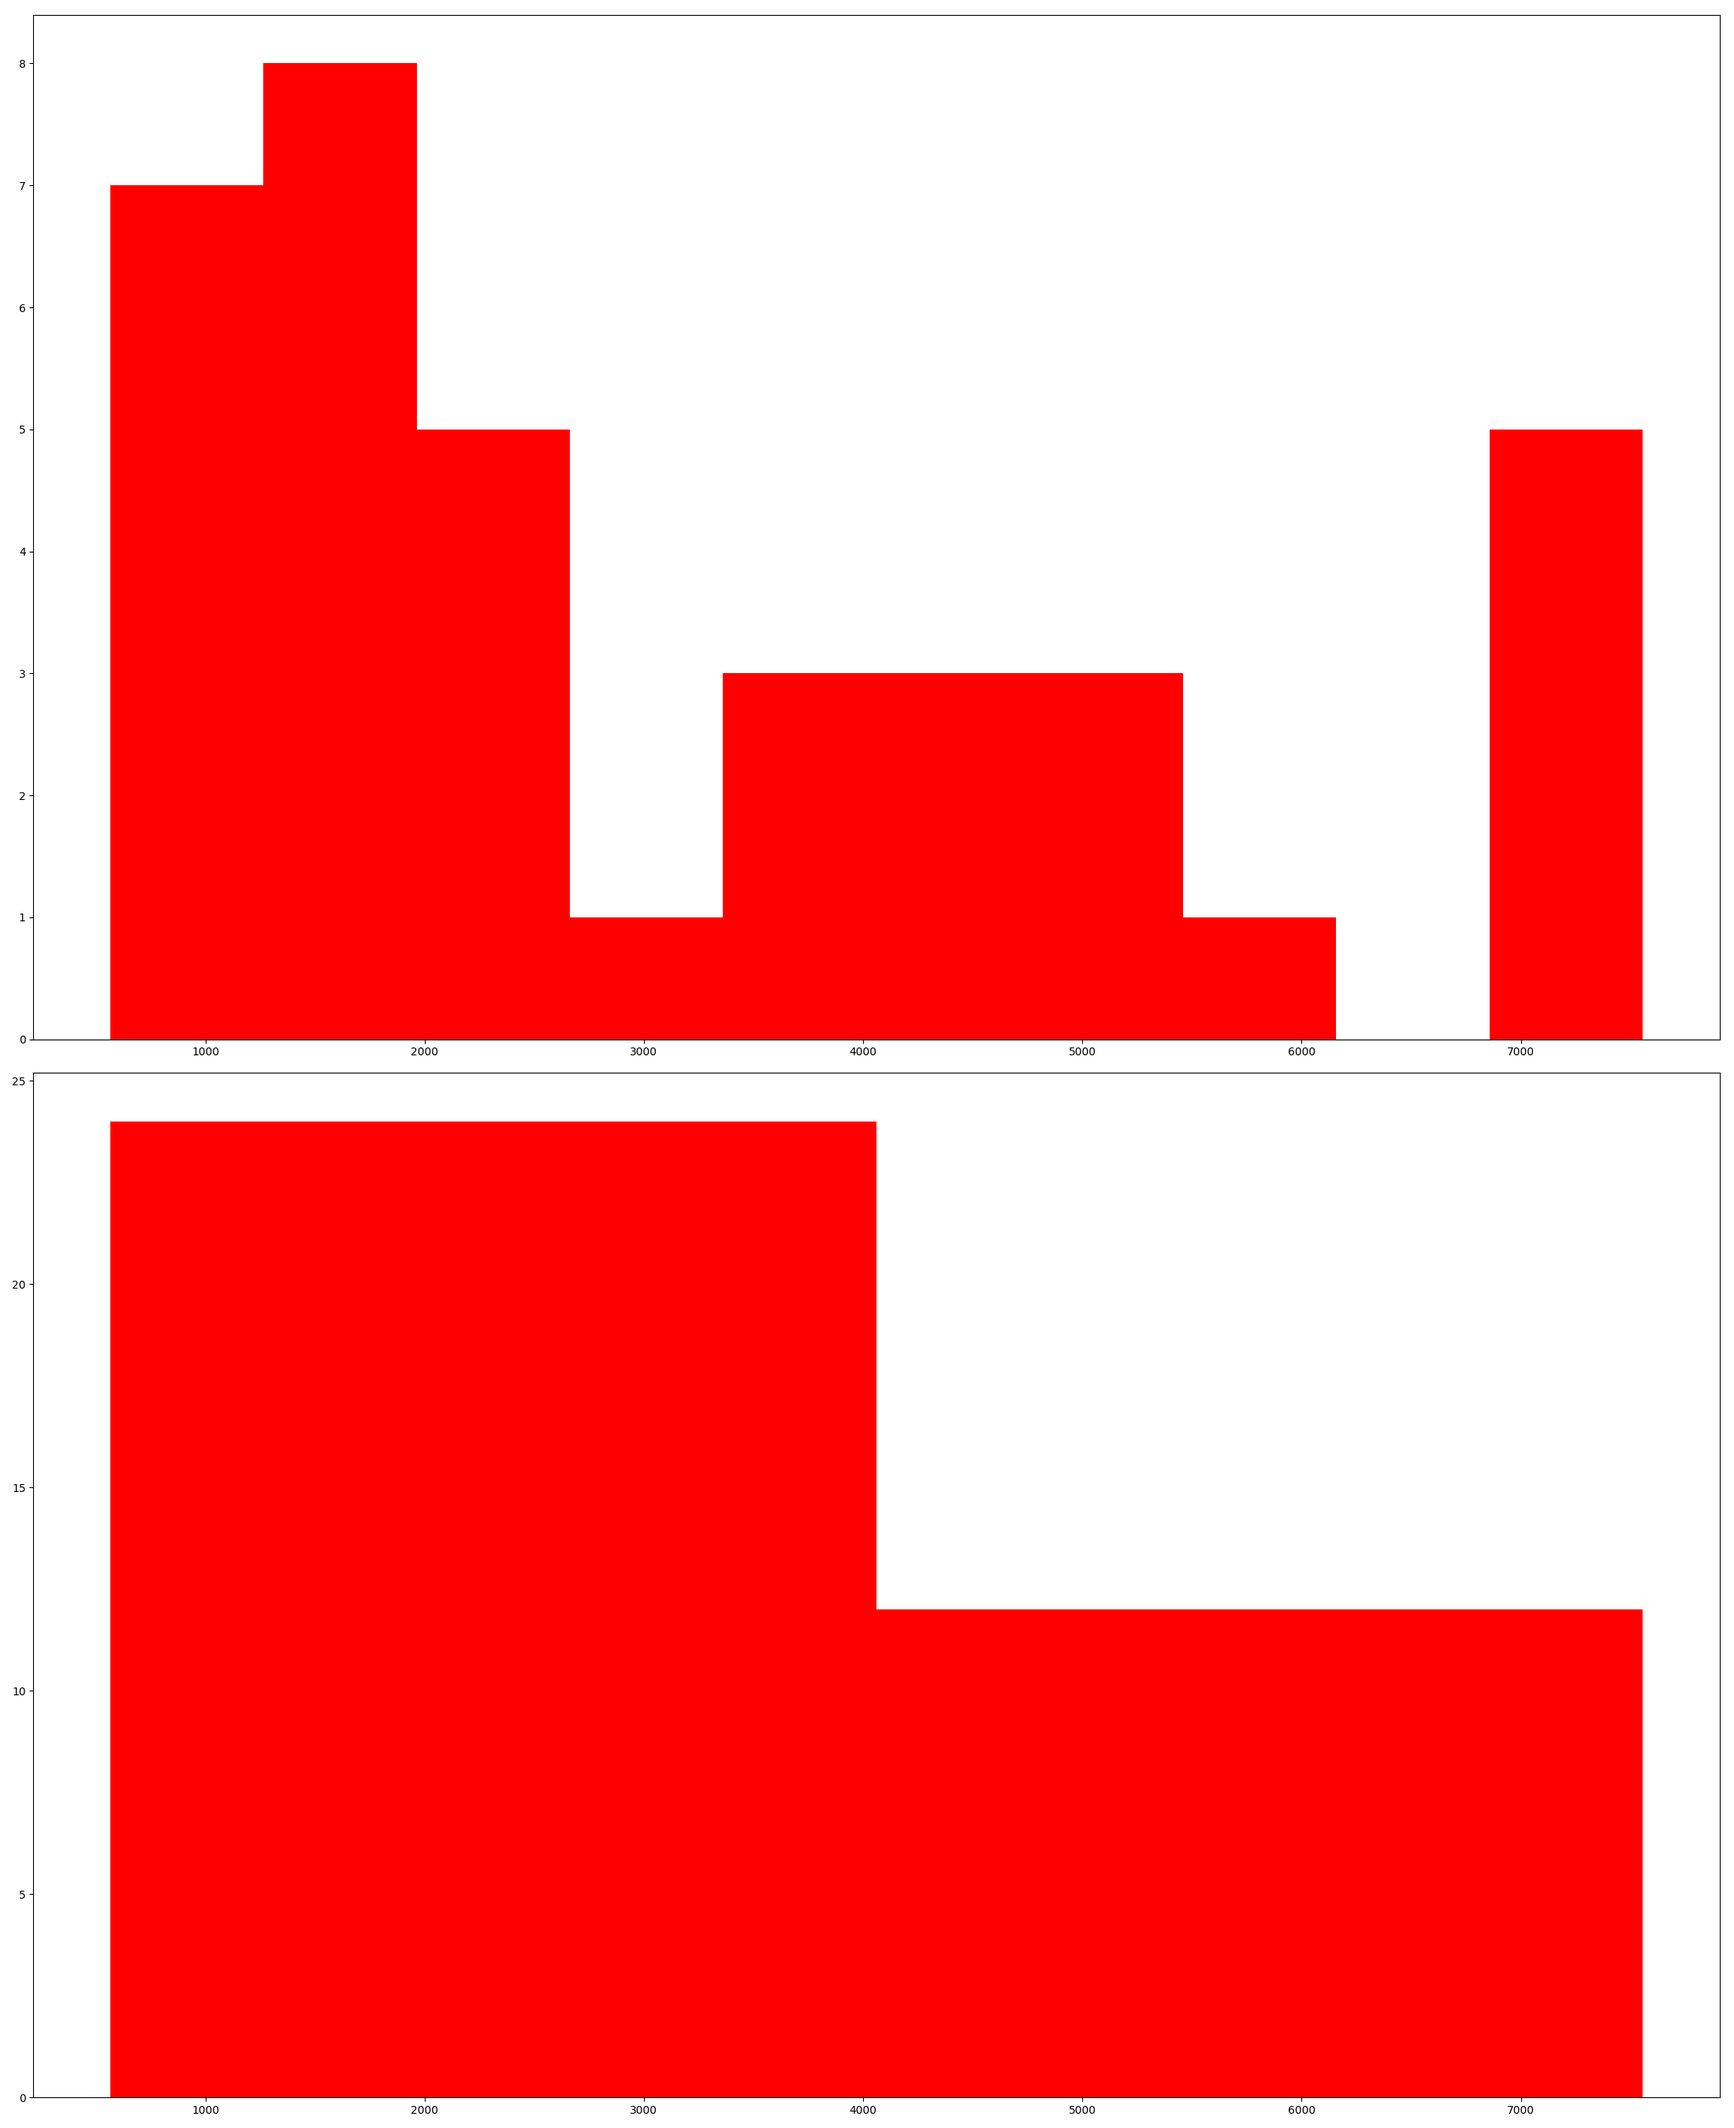
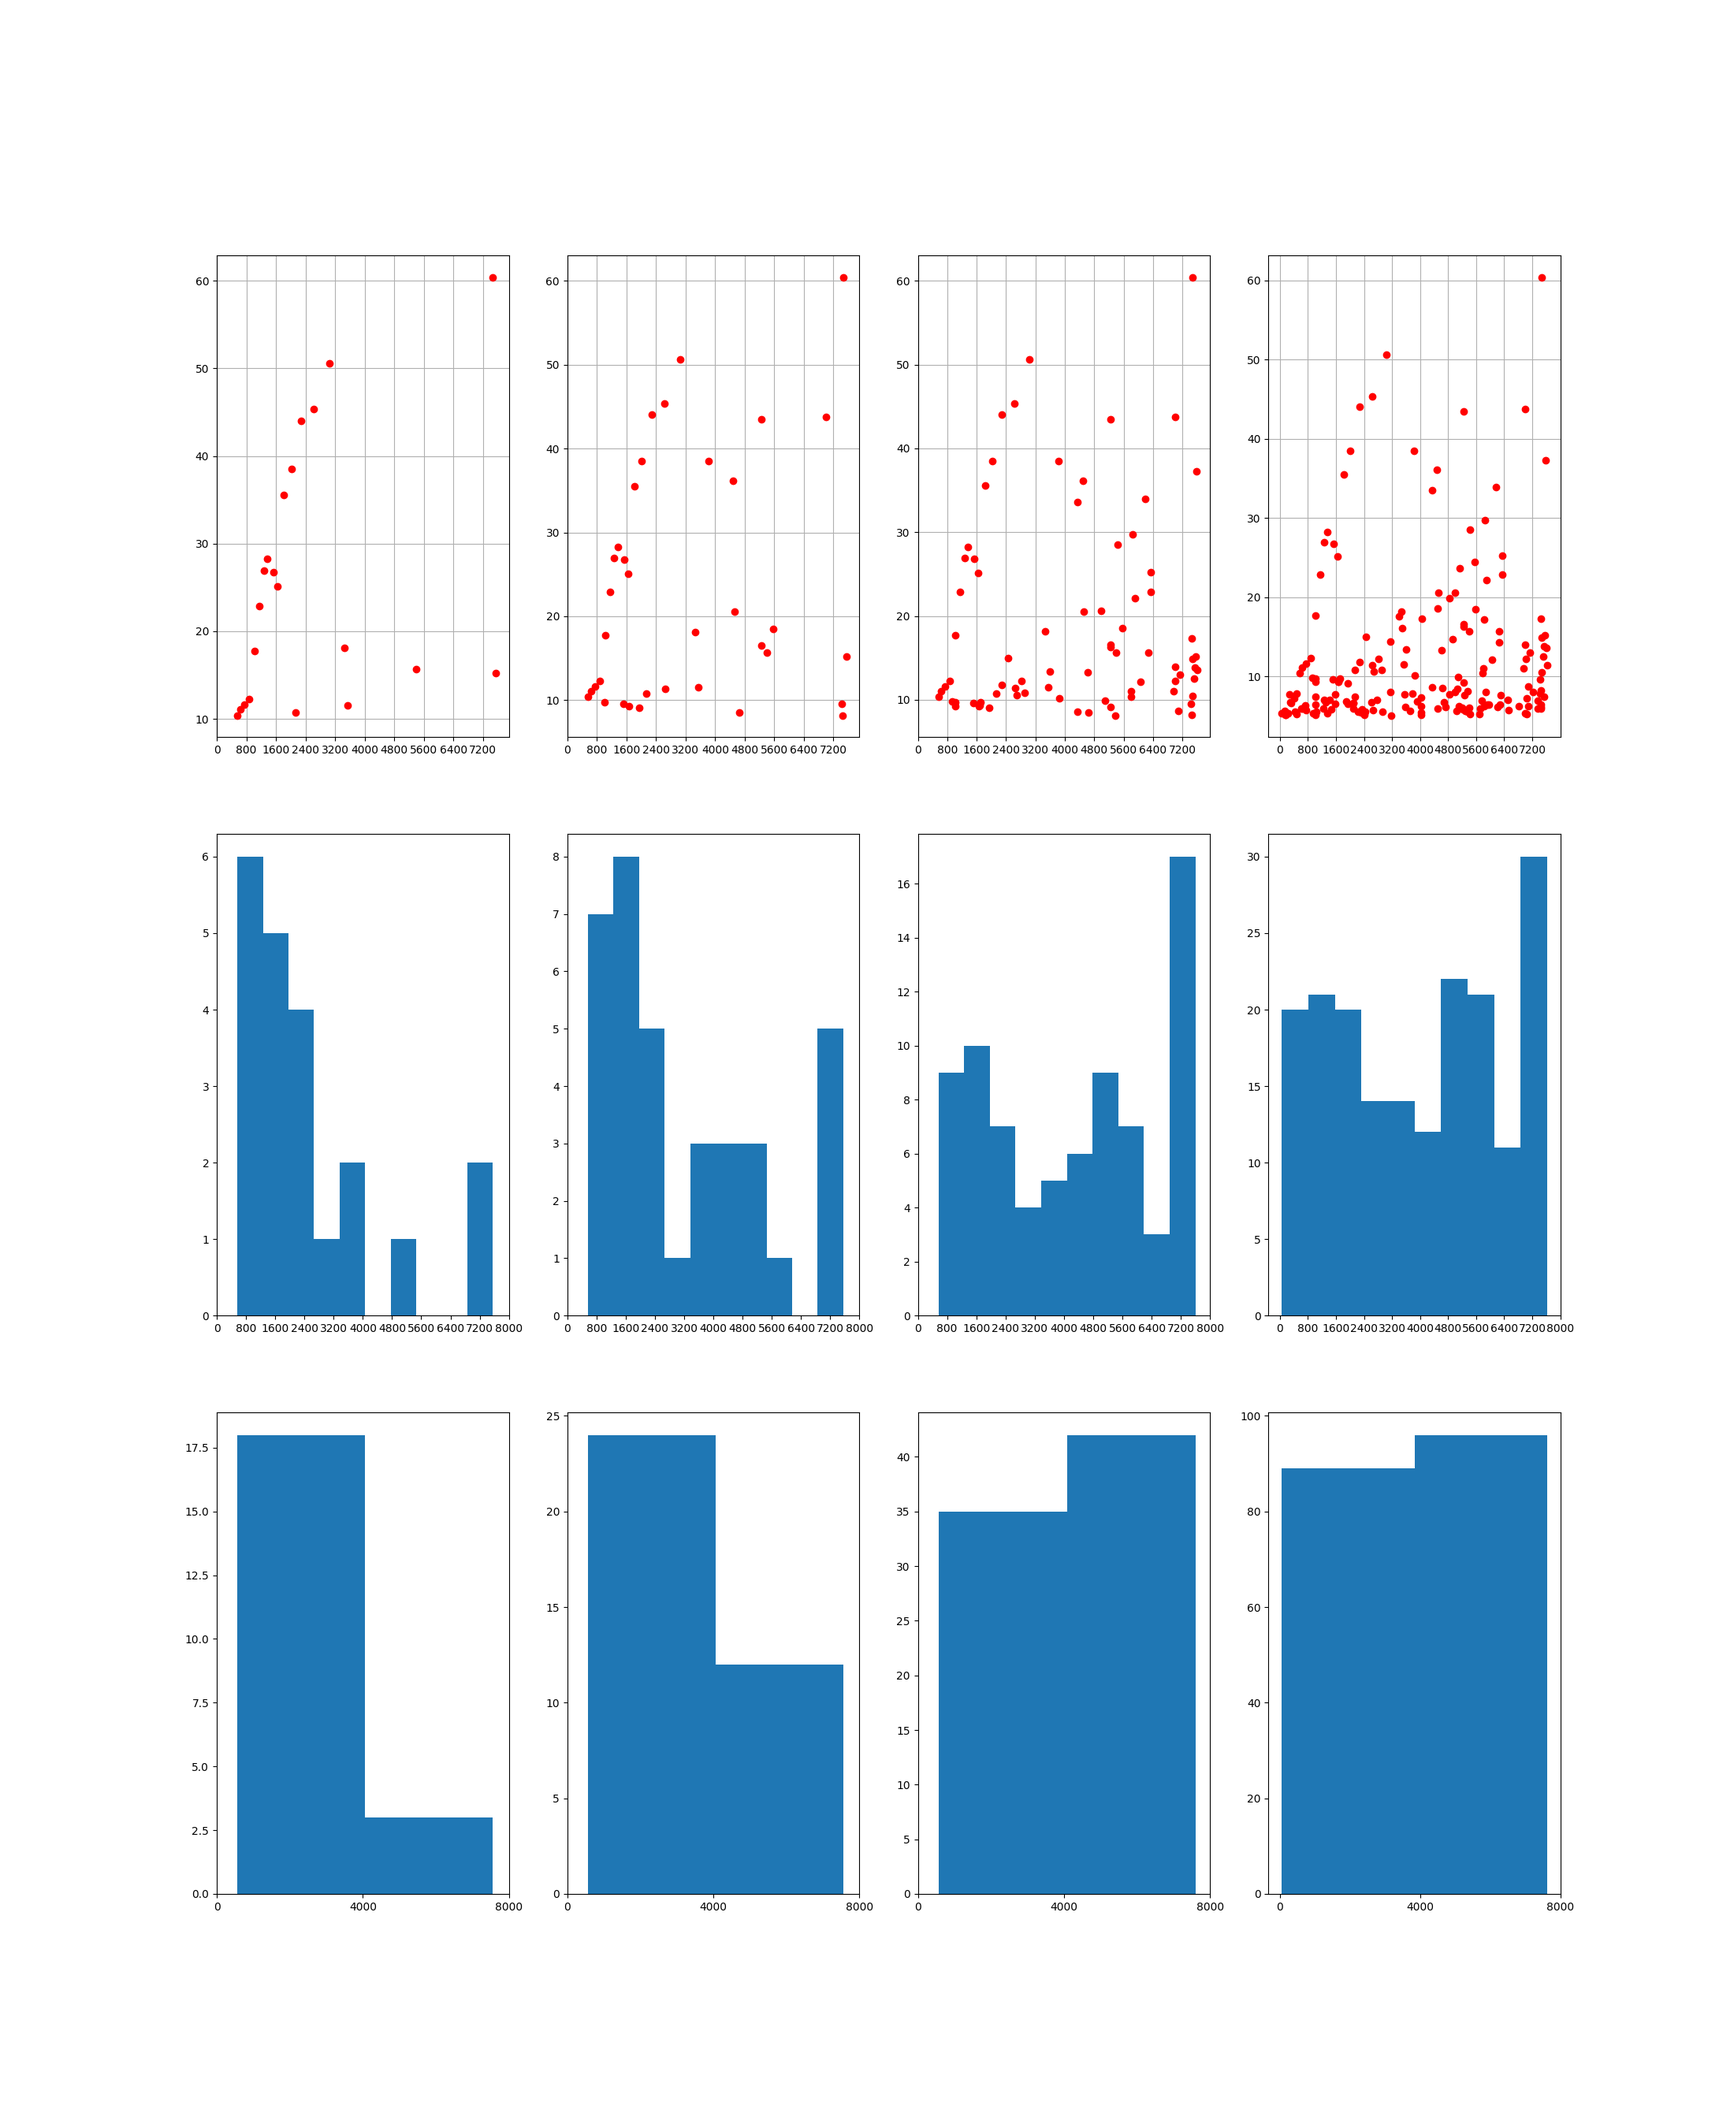
up

diff --git a/returnnTfNetworkLayerPlotter.py b/returnnTfNetworkLayerPlotter.py
@@ -193,8 +193,7 @@ class Peaks(object):
                 'cleanPeaks': self.filterCleanPeaks,
                 'dirtyPeaks': self.filterDirtyPeaks
         }
-#        self.barAccuracies = [1,10,2]
-        self.barAccuracies = [10,2]
+        self.barAccuracies = [1,10,2]
 
     def getPeaks(self, epoch, filterFunctionString, dimInputIdx):
         filterWeights = self.fourierWeights[epoch][dimInputIdx]
@@ -331,8 +330,8 @@ class Plotter(object):
         filterFunctionsToPlot = len(self.plottingConfigs['filterFunctions'])
         numBarPlots = len(self.layer.peaks.barAccuracies)
 
-#        fig, axs = plt.subplots(numBarPlots, filterFunctionsToPlot, figsize=self.figSize)
-        fig, axs = plt.subplots(numBarPlots, figsize=self.figSize, tight_layout=True)
+        fig, axs = plt.subplots(numBarPlots, filterFunctionsToPlot, figsize=self.figSize)
+#        fig, axs = plt.subplots(numBarPlots, figsize=self.figSize, tight_layout=True)
 
 
         for epochIdx, epoch in enumerate(self.epochRangeToPlot):
@@ -349,32 +348,15 @@ class Plotter(object):
         if(barAccuracy == 1):
             xAxisValues = [ x[0] for x in peaksToPlot ]
             yAxisValues = [ x[1] for x in peaksToPlot ]
-#            axs[barIdx][filterFunctionIdx].plot(xAxisValues, yAxisValues, 'ro')
-#            axs[barIdx].plot(xAxisValues, yAxisValues, 'ro')
-#            axs[barIdx][filterFunctionIdx].grid(b=True)
-            axs[barIdx].grid(b=True)
-#            axs[barIdx][filterFunctionIdx].set_xticks(range(0,maxFreq, 1000))
-            axs[barIdx].set_xticks(range(0,maxFreq, 1000))
+            axs[barIdx][filterFunctionIdx].plot(xAxisValues, yAxisValues, 'ro')
+            axs[barIdx][filterFunctionIdx].grid(b=True)
+            axs[barIdx][filterFunctionIdx].set_xticks(range(0,maxFreq, int((maxFreq+1)/10)))
         else: 
             intervalLen = int((maxFreq+1)/barAccuracy)
             values = [ val[0] for val in peaksToPlot ]
-            ipdb.set_trace()
-            print(values)
-#            xAxisValues = range(1,len(yAxisValues)+1)
-            print('barIdx:{}'.format(barIdx))
-            print('filterFunctionIdx:{}'.format(filterFunctionIdx))
-#            print(yAxisValues)
-#            axs[barIdx][filterFunctionIdx].bar(xAxisValues, yAxisValues, color='red', width='0.1')
-            axs[barIdx].hist(values, bins=barAccuracy, color='red')
-#            axs[barIdx][filterFunctionIdx].set_xticks(range(0,maxFreq+1, intervalLen))
-#            axs[barIdx].set_xticks(range(0,maxFreq+1, intervalLen))
+            axs[barIdx][filterFunctionIdx].hist(values, bins=barAccuracy)
+            axs[barIdx][filterFunctionIdx].set_xticks(range(0,maxFreq+1, intervalLen))
 
-    def countElemsInInterval(self, peaksToPlot, maxFreq, intervalLen):
-        histogram,_ = np.histogram(peaksToPlot, bins=range(0, maxFreq+1, intervalLen))
-        return histogram
-
-
-         
     def plot1DSimpleWeightsAll(self):
         assert 'samplesPerRow' in self.plottingConfigs, 'Needs to give the attribute samplesPerRow'
 
